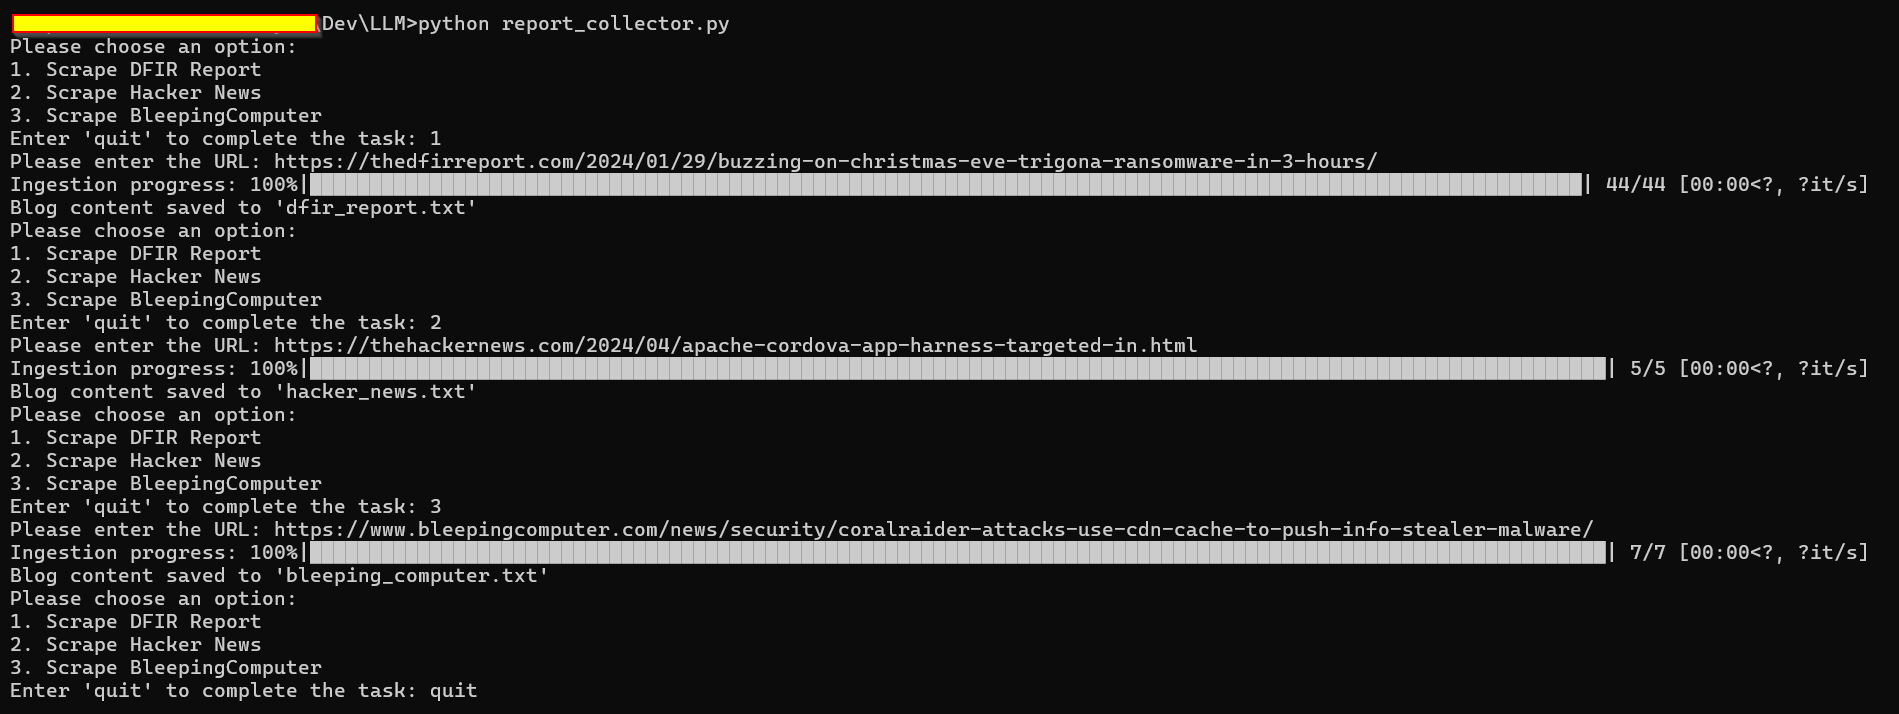
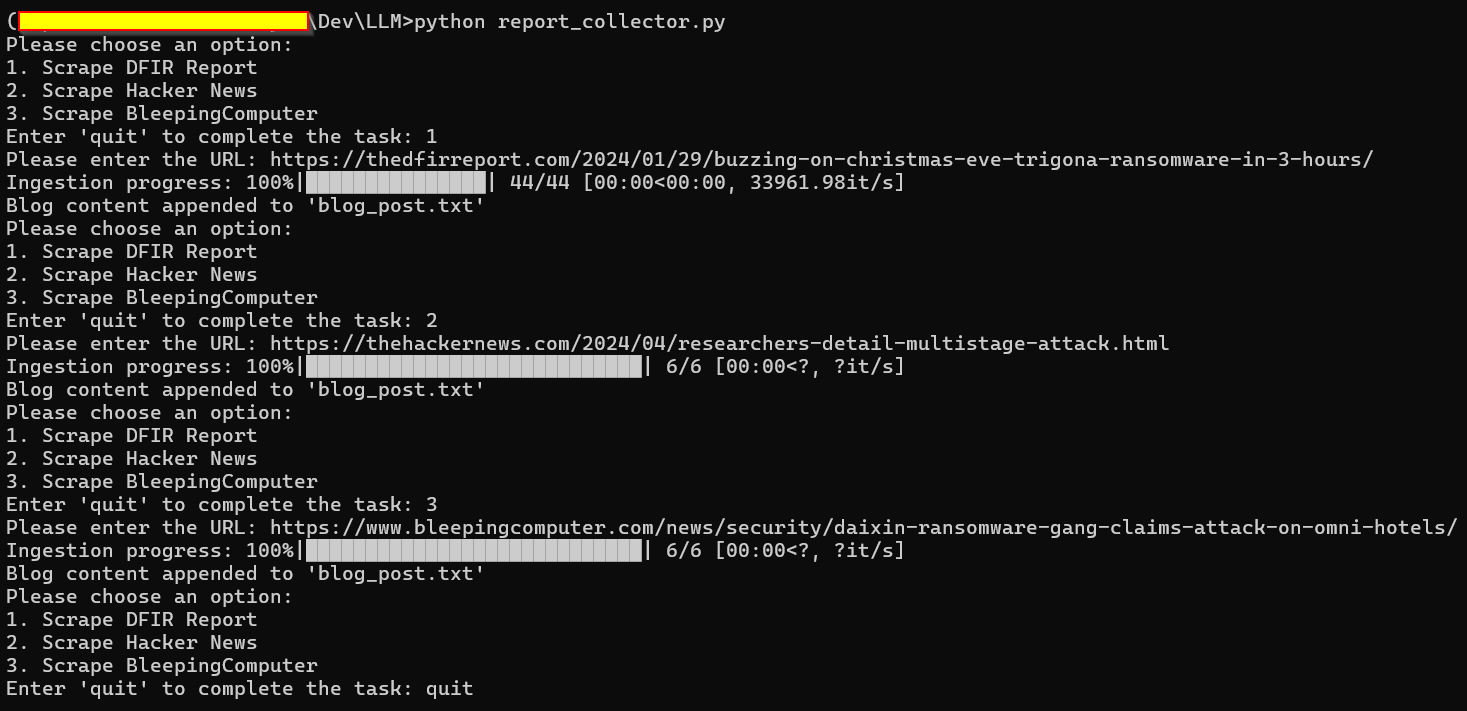
Common file for scaped content dump

Changed region(s): [[0.0, 0.0, 1.0, 0.9902]]

diff --git a/report_collector.py b/report_collector.py
@@ -60,7 +60,7 @@ def scrape_bleeping_computer(url):
     return bc_content
 
 def save_to_txt(content, filename):
-    with open(filename, 'w', encoding='utf-8') as file:
+    with open(filename, 'a', encoding='utf-8') as file:
         file.write(content)
 
 if __name__ == "__main__":
@@ -75,22 +75,19 @@ if __name__ == "__main__":
         if option == '1':
             # Scrape DFIR Report
             blog_content = scrape_dfir_report(url)
-            filename = 'dfir_report.txt'
         elif option == '2':
             # Scrape Hacker News
             blog_content = scrape_hacker_news(url)
-            filename = 'hacker_news.txt'
         elif option == '3':
             # Scrape BleepingComputer
             blog_content = scrape_bleeping_computer(url)
-            filename = 'bleeping_computer.txt'
         else:
             print("Invalid option. Please choose either 1, 2, or 3")
             continue
         
-        # Save the content to a text file
+        # Save the content to a common file
         if blog_content:
-            save_to_txt(blog_content, filename)
-            print(f"Blog content saved to '{filename}'")
+            save_to_txt(blog_content, 'blog_post.txt')
+            print("Blog content appended to 'blog_post.txt'")
         else:
             print("Failed to scrape blog content!")
